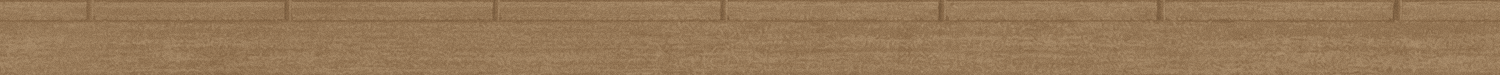
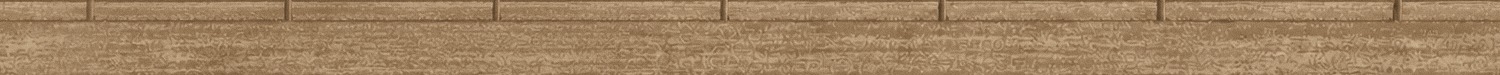
ダート: 砂煙の「丸いポンポン」を消す／横の画のぎこちなさを直す
★オーナー評 2 件（2026-08-29・実画面）:
  ①「砂煙が丸いポンポンしている感じで砂煙っぽくない」
  ②「芝コースと違って、走り方がぎこちないまま」

【② 原因 — ★横の画は地面タイルではなく「板」だった】
★前便で地面タイルは直したが、★**オーナーが見ていたのは `winner-follow`＝横の画**。
★横は焼き込み済みの板（`parallaxPlate`）で、★私の色の載せ替えが**コントラストを潰していた**。

実測（板の列方向＝進行方向の輝度のばらつき）:
  turf-near 3.31  ／ ★dirt-near 1.88（前）→ ★3.96（今）
  turf-mid  2.80  ／ ★dirt-mid  1.71（前）→ ★3.52（今）
  turf-far  3.33  ／ ★dirt-far  1.80（前）→ ★3.89（今）

⚠ ★原因は 2 つ重なっていた:
   ・輝度を 0.78 倍に**圧縮**していた
   ・色の範囲が `dirt-2`〜`dirt-0`（輝度 87〜153）と**狭かった**
→ ★圧縮をやめ、暗い側を `dirt-3` まで下げ、明るい側を上げた。

【① 砂煙が丸く見えていた】
★均一な塗りで楕円を塗ると、★**縁が硬くて「丸いポンポン」に見える**。★砂煙に縁は無い。
→ ★`Ctx2D` に `createRadialGradient`（任意）を足し、
  ★中心から外へ 0 に落ちる**放射状の濃淡**で塗る。
  ★粒は真円にする（楕円で切ると**上下だけ縁が残る**）。
  ★煙全体の平たさは、★**粒ごとの高さをちらす**ことで出す。
  ★粒を 9 → 14 に増やして重ねる。
  ⚠ ★濃淡にすると実効の濃さが落ちるので、不透明度を 0.42 → 0.50 に戻した。

★`winner-follow` でも出ていることを差分で確認（範囲 x0-600 / y294-465・最大差 119・
  目に見える画素 6563）。★静止画では薄いが、描かれていないのではない。

★芝は 1 画素も変えていない（同じ場面を撮って完全に同一）。
★ASSET_VERSION 57（板を焼き直したため）。

検証: npm test 123 ファイル / 1215 件 PASS（exit 0）／ npm run typecheck クリーン（exit 0）

Claude-Session: https://claude.ai/code/session_01TDwnuoUG3UaNtW8CYJ2Vcd

diff --git a/packages/render/src/perspective-draw.ts b/packages/render/src/perspective-draw.ts
@@ -517,6 +517,18 @@ export function drawPerspectiveWorld(
 export const HORSE_HEIGHT_M = 2.5;
 
 /**
+ * ★**`#rrggbb` を `rgba(...)` にする**（砂煙の放射状の濃淡用）。
+ *   ★`globalAlpha` だけだと**内側も外側も同じ濃さ**になり、縁が硬くなります。
+ *   ⚠ ★`#rgb` の短い形式は受けません（渡す側で揃えてください）。
+ */
+function rgbaOf(hex: string, alpha: number): string {
+  const r = Number.parseInt(hex.slice(1, 3), 16);
+  const g = Number.parseInt(hex.slice(3, 5), 16);
+  const b = Number.parseInt(hex.slice(5, 7), 16);
+  return `rgba(${r}, ${g}, ${b}, ${alpha.toFixed(3)})`;
+}
+
+/**
  * ★**太陽**（設計 1-8・参考映像 1.2 #13）
  *
  * 【参考で見えていること】
@@ -915,26 +927,59 @@ export function drawPerspectiveHorses<TImage>(
       const phase = (((frameIndex % cycle) + cycle) % cycle) / cycle;
       /** ★尾を引く長さ（m）。★長すぎると後続が見えなくなります */
       const PLUME_M = 6.0;
-      const PUFFS = 9;
+      const PUFFS = 14;
+      const dust = opts.trackEffect.dustColor ?? opts.trackEffect.color;
       for (let i = 0; i < PUFFS; i += 1) {
         /** ★古さ（0=出たばかり … 1=消える）。★位相を足して連続にする */
         const age = (i + phase) / PUFFS;
         const jig = ((d.h.gate * 13 + i * 7) % 11) / 11;
         const back = 0.55 + age * PLUME_M;
-        const rise = 0.20 + age * 0.85;
+        /** ★高さを粒ごとにちらす（並んだ丸に見えないように） */
+        const rise = 0.14 + age * 0.80 + (jig - 0.5) * 0.30;
         const lateral = (jig - 0.5) * (0.45 + age * 1.30);
         const q = P(d.s - back, d.h.w + lateral);
         if (q.depth <= 2) continue;
         /** ⚠ ★大きすぎると**砂煙ではなく壁**になります（不透明度 1 で確かめ済み） */
-        const rx = q.pxPerM * (0.20 + age * 0.52 + jig * 0.10);
+        const rx = q.pxPerM * (0.16 + age * 0.46 + jig * 0.14);
         const ry = rx * (0.52 + jig * 0.16);
         /** ★消え方は後半ほど早く（尾が鑑を引かないように） */
         const fade = (1 - age) * (1 - age);
-        ctx.globalAlpha = Math.min(0.42, 0.46 * fade * Math.min(1, kickup * 4.5));
-        ctx.fillStyle = opts.trackEffect.dustColor ?? opts.trackEffect.color;
-        ctx.beginPath();
-        ctx.ellipse(q.x, q.y - rise * q.pxPerM, rx, ry, 0, 0, Math.PI * 2);
-        ctx.fill();
+        const a = Math.min(0.50, 0.56 * fade * Math.min(1, kickup * 4.5));
+        /**
+         * ★**縁をでかして、砂煙にする**（2026-08-29）。
+         *
+         * ⚠ ★均一な塗りで楺円を塗ると、★**縁が硬くて「丸いポンポン」に見えます**
+         *    （オーナー評・2026-08-29）。★砂煙には縁がありません。
+         * ★中心から外へ 0 へ落ちる**放射状の濃淡**で塗ります。
+         *   ★円しか作れないので、★**縦に縮めて**楺円にします。
+         */
+        const cx = q.x;
+        const cy = q.y - rise * q.pxPerM;
+        /**
+         * ★**一つ一つは真丸**にします。
+         *   ★楺円にすると、円形の濃淡を楺円で切ることになり、
+         *   ★**上下だけ縁が残ります**。
+         *   ★煙全体の平たさは、粒ごとの**高さをちらす**ことで出します。
+         */
+        const grad = ctx.createRadialGradient === undefined
+          ? undefined : ctx.createRadialGradient(cx, cy, 0, cx, cy, rx);
+        if (grad === undefined) {
+          /** ★濃淡が無い実装では従来どおりの均一な塗り（描かないより良い） */
+          ctx.globalAlpha = a;
+          ctx.fillStyle = dust;
+          ctx.beginPath();
+          ctx.ellipse(cx, cy, rx, ry, 0, 0, Math.PI * 2);
+          ctx.fill();
+        } else {
+          grad.addColorStop(0, rgbaOf(dust, a));
+          grad.addColorStop(0.45, rgbaOf(dust, a * 0.66));
+          grad.addColorStop(1, rgbaOf(dust, 0));
+          ctx.globalAlpha = 1;
+          ctx.fillStyle = grad;
+          ctx.beginPath();
+          ctx.ellipse(cx, cy, rx, rx, 0, 0, Math.PI * 2);
+          ctx.fill();
+        }
       }
       ctx.globalAlpha = 1;
     }

diff --git a/packages/render/src/oblique-draw.ts b/packages/render/src/oblique-draw.ts
@@ -73,6 +73,17 @@ export interface Ctx2D<TImage = unknown> {
    * ★任意（両環境にある）。接地影のように**画像を変形して描く**ときだけ使う。
    *   無い環境では変形を伴う描画を省く（落ちない）。
    */
+  /**
+   * ★**放射状の濃淡**（2026-08-29）。★砂煙の**縁を消す**ために使います。
+   *
+   * ⚠ ★`globalAlpha` だけでは**内側も外側も同じ濃さ**になり、
+   *    ★縁が硬くて**「丸いポンポン」に見えます**（オーナー評・2026-08-29）。
+   * ★ブラウザも `@napi-rs/canvas` も持っていますが、
+   *   ★**無い実装でも壊れないように任意**にしてあります（呼ぶ側が見て分岐する）。
+   */
+  createRadialGradient?(
+    x0: number, y0: number, r0: number, x1: number, y1: number, r1: number,
+  ): { addColorStop(offset: number, color: string): void };
   save?(): void;
   restore?(): void;
   transform?(a: number, b: number, c: number, d: number, e: number, f: number): void;

diff --git a/apps/web/src/app/race/page.tsx b/apps/web/src/app/race/page.tsx
@@ -130,7 +130,7 @@ function drawRendererBadge(ctx: CanvasRenderingContext2D, kind: RendererKind, st
 }
 const STRATS: readonly Strategy[] = ['nige', 'senko', 'sashi', 'oikomi'];
 /** ★素材を足したら必ず上げる。★`manifest.json` の中身を変えたときも（古いものがキャッシュされる） */
-const ASSET_VERSION = '56';
+const ASSET_VERSION = '57';
 /**
  * ★コマごとの持ち上げ量。**単位は「基準画布（高さ 1536px）での px」**。
  *
